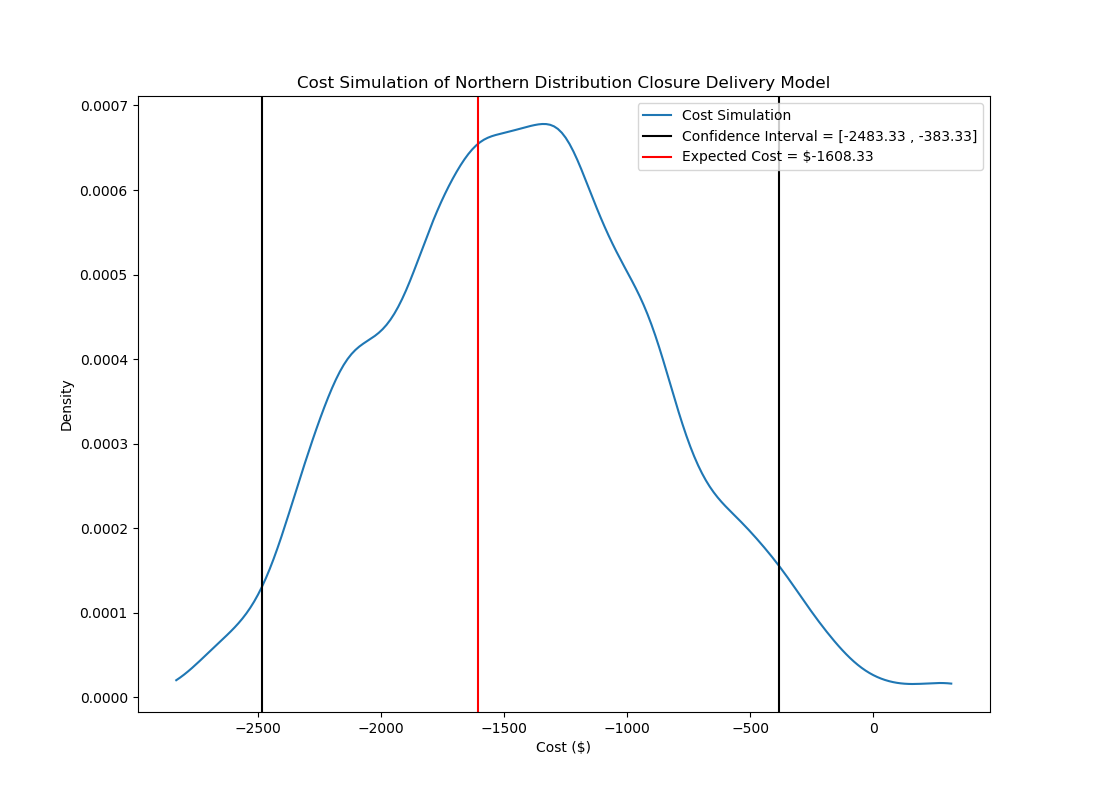
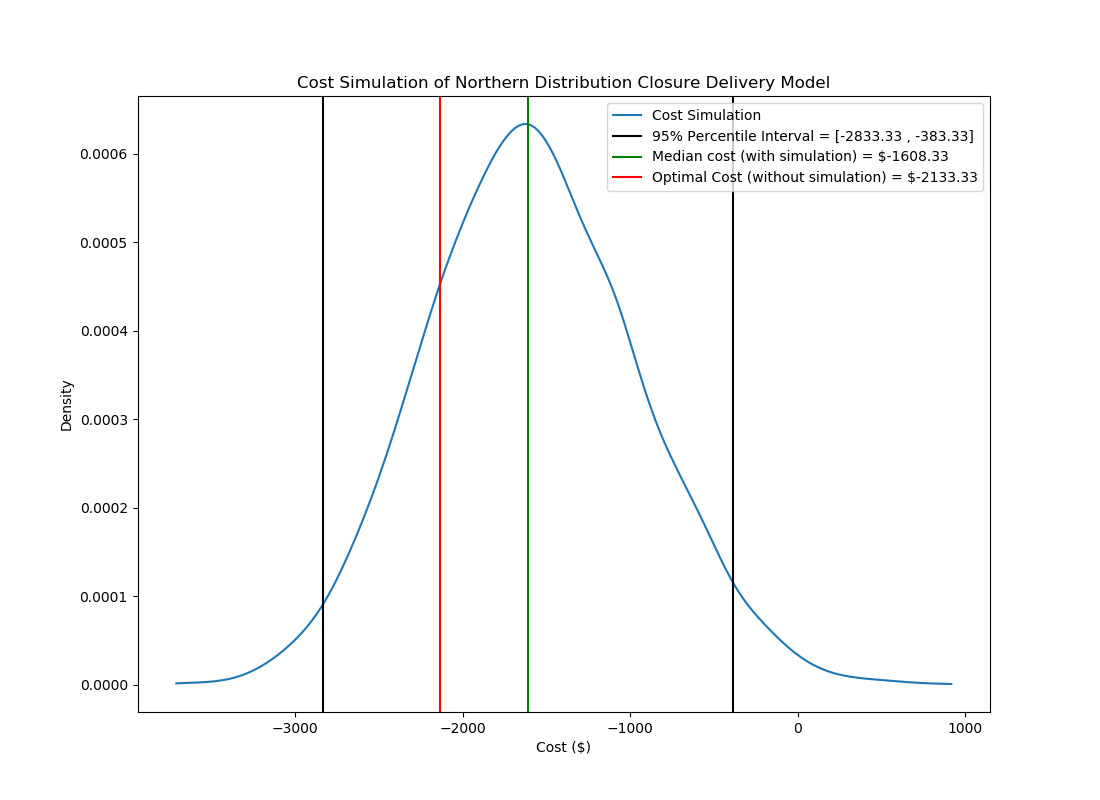
Replaced Confidence Interval with Percentile Interval

diff --git a/Main.py b/Main.py
@@ -253,7 +253,7 @@ if __name__ == "__main__":
         plt.rcParams["figure.figsize"] = (11,8)
         plt.plot(xs,cost_density(xs), label = "Cost Simulation")
 
-        plt.axvline(x = cost_sort[round(sim_size*0.025)], color = 'k', label = ("Confidence Interval = [" + '{:.2f}'.format(cost_sort[round(sim_size*0.025)]) + " , " + '{:.2f}'.format(cost_sort[round(sim_size*0.975)]) + "]"))
+        plt.axvline(x = cost_sort[round(sim_size*0.025)], color = 'k', label = ("95% Percentile Interval = [" + '{:.2f}'.format(cost_sort[round(sim_size*0.025)]) + " , " + '{:.2f}'.format(cost_sort[round(sim_size*0.975)]) + "]"))
         plt.axvline(x = cost_sort[round(sim_size*0.975)], color = 'k')
         plt.axvline(x = cost_sort[round(sim_size*0.5)], color = 'g', label = "Median cost (with simulation) = $" + '{:.2f}'.format(cost_sort[round(sim_size*0.5)]))
         plt.axvline(x = total_cost[x], color = 'r', label = ("Optimal Cost (without simulation) = $" + '{:.2f}'.format(total_cost[x])))
